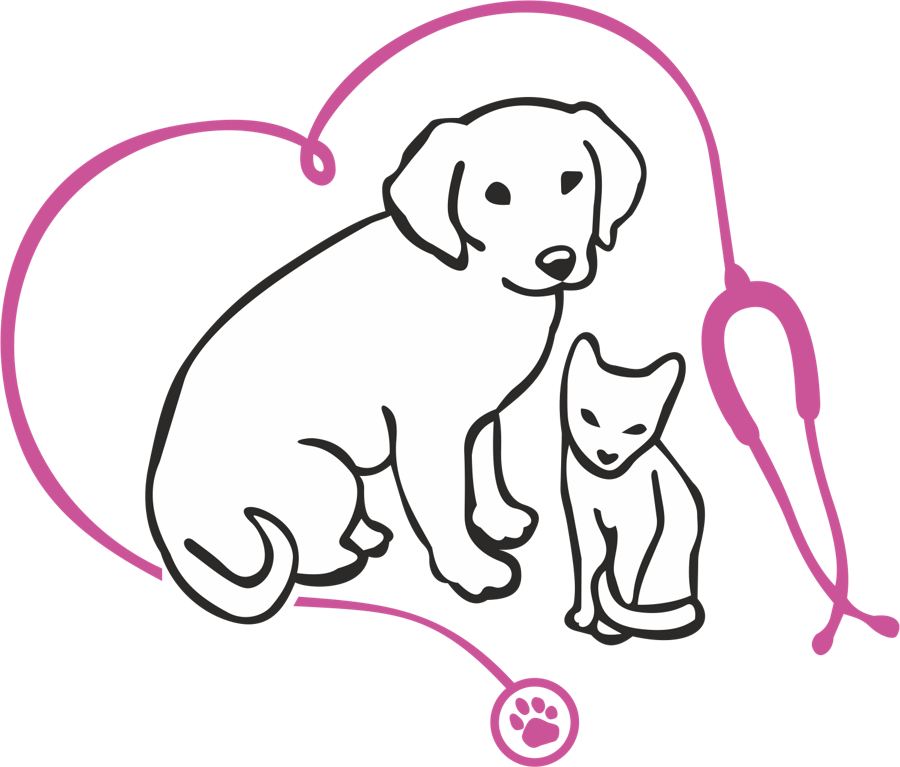
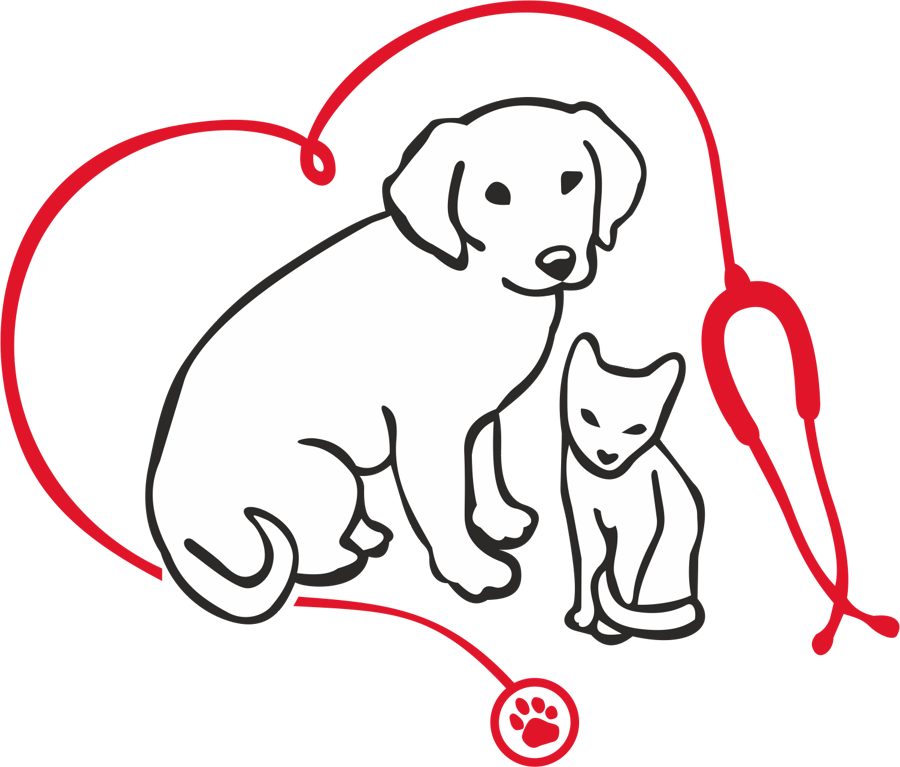
Add files via upload

diff --git a/css/style.css b/css/style.css
@@ -1,17 +1,17 @@
 /* Тёплый Хвост. Стили написаны с нуля. */
 :root {
-  --green: #1f7a6d;
-  --green-dark: #165a50;
-  --green-tint: #e3f1ee;
-  --orange: #f28c38;
-  --orange-dark: #d9741f;
-  --ink: #23332f;
-  --muted: #5d6e69;
-  --bg: #fbf8f3;
+  --green: #b3470a;
+  --green-dark: #8a3606;
+  --green-tint: #ffe8d2;
+  --orange: #ff8a1f;
+  --orange-dark: #e56f00;
+  --ink: #1f1410;
+  --muted: #6b5548;
+  --bg: #fff7f0;
   --white: #ffffff;
-  --line: #e4ddd1;
-  --radius: 16px;
-  --shadow: 0 6px 24px rgba(35, 51, 47, .08);
+  --line: #ecd5c0;
+  --radius: 10px;
+  --shadow: 6px 6px 0 rgba(16, 24, 32, .9);
   --font: "Segoe UI", system-ui, -apple-system, Roboto, "Helvetica Neue", Arial, sans-serif;
 }
 
@@ -20,7 +20,7 @@ html { scroll-behavior: smooth; scroll-padding-top: 90px; }
 body { margin: 0; font-family: var(--font); color: var(--ink); background: var(--bg); line-height: 1.6; font-size: 17px; }
 img, svg { max-width: 100%; display: block; }
 a { color: var(--green); }
-h1, h2, h3 { line-height: 1.2; margin: 0 0 .5em; }
+h1, h2, h3 { line-height: 1.15; margin: 0 0 .5em; font-weight: 800; letter-spacing: -.02em; }
 h1 { font-size: clamp(2rem, 4.5vw, 3.2rem); }
 h2 { font-size: clamp(1.6rem, 3vw, 2.2rem); }
 h3 { font-size: 1.15rem; }
@@ -32,13 +32,13 @@ p { margin: 0 0 1em; }
 .skip { position: absolute; left: -999px; top: 8px; background: var(--ink); color: #fff; padding: 8px 14px; border-radius: 8px; z-index: 100; }
 .skip:focus { left: 8px; }
 
-:focus-visible { outline: 3px solid var(--orange); outline-offset: 2px; }
+:focus-visible { outline: 3px solid var(--green); outline-offset: 2px; }
 
 /* Плашка */
 .notice { background: var(--ink); color: #fff; text-align: center; font-size: .85rem; padding: 6px 12px; }
 
 /* Шапка */
-.header { position: sticky; top: 0; z-index: 50; background: rgba(251, 248, 243, .95); backdrop-filter: blur(8px); border-bottom: 1px solid var(--line); }
+.header { position: sticky; top: 0; z-index: 50; background: rgba(255, 247, 240, .95); backdrop-filter: blur(8px); border-bottom: 1px solid var(--line); }
 .header__row { display: flex; align-items: center; gap: 20px; min-height: 72px; }
 .logo { display: flex; align-items: center; gap: 10px; text-decoration: none; color: var(--ink); font-weight: 700; line-height: 1.1; }
 .logo small { display: block; font-weight: 400; color: var(--muted); font-size: .75rem; }
@@ -60,7 +60,7 @@ p { margin: 0 0 1em; }
 .btn { display: inline-block; border: 2px solid transparent; border-radius: 999px; padding: 10px 22px; font: inherit; font-weight: 600; cursor: pointer; text-decoration: none; transition: background .15s, transform .15s, color .15s; }
 .btn:active { transform: translateY(1px); }
 .btn--accent { background: var(--orange); color: #1d1206; }
-.btn--accent:hover { background: var(--orange-dark); color: #fff; }
+.btn--accent:hover { background: var(--orange-dark); color: var(--ink); }
 .btn--ghost { border-color: var(--green); color: var(--green); background: transparent; }
 .btn--ghost:hover { background: var(--green); color: #fff; }
 .btn--lg { padding: 14px 28px; font-size: 1.05rem; }
@@ -89,6 +89,7 @@ p { margin: 0 0 1em; }
 .section { padding: 64px 0; }
 .section--tint { background: var(--green-tint); }
 .section__lead { color: var(--muted); max-width: 40em; margin-bottom: 28px; }
+.doctor .doctor__days { flex: 0; font-size: .9rem; margin-top: -4px; }
 .note { color: var(--muted); font-size: .88rem; margin-top: 16px; }
 
 /* Вкладки */
@@ -163,14 +164,13 @@ input:focus, select:focus, textarea:focus { border-color: var(--green); }
 /* Контакты */
 .contacts { display: grid; grid-template-columns: 1.1fr .9fr; gap: 32px; align-items: start; }
 address { font-style: normal; }
-.map { height: 200px; border-radius: var(--radius); background: repeating-linear-gradient(45deg, #fff, #fff 12px, #eef6f4 12px, #eef6f4 24px); border: 1px dashed var(--green); display: grid; place-items: center; color: var(--muted); }
 
 /* Подвал */
-.footer { background: var(--ink); color: #dfe8e5; padding: 32px 0; }
+.footer { background: var(--ink); color: #f6e9dd; padding: 32px 0; }
 .footer__row { display: flex; flex-wrap: wrap; gap: 24px; justify-content: space-between; }
-.footer p { margin: 4px 0 0; color: #b6c4c0; font-size: .9rem; }
+.footer p { margin: 4px 0 0; color: #d4bfae; font-size: .9rem; }
 .footer nav { display: flex; flex-wrap: wrap; gap: 16px; align-items: flex-start; }
-.footer a { color: #dfe8e5; }
+.footer a { color: #f6e9dd; }
 
 /* Окна */
 .modal { border: 0; border-radius: var(--radius); padding: 0; width: min(520px, 100% - 24px); max-height: 92vh; overflow: auto; box-shadow: 0 20px 60px rgba(0, 0, 0, .3); }
@@ -211,3 +211,86 @@ address { font-style: normal; }
   .price th, .price td { padding: 12px; }
   .cookie { flex-direction: column; align-items: stretch; }
 }
+
+/* Смелый дизайн: жёсткие тени, резкие углы, «нажимающиеся» кнопки */
+:root { --hard: 4px 4px 0 var(--ink); --hard-lg: 8px 8px 0 var(--ink); --edge: 2px solid var(--ink); }
+.header { border-bottom: var(--edge); background: var(--white); }
+.nav a { border-bottom-width: 3px; transition: border-color .15s; }
+.nav a:hover { border-color: var(--orange-dark); }
+
+.btn { border-radius: 8px; text-transform: none; letter-spacing: .01em; border-color: var(--ink); box-shadow: var(--hard); transition: transform .12s, box-shadow .12s, background .12s, color .12s; }
+.btn:hover { transform: translate(-2px, -2px); box-shadow: 6px 6px 0 var(--ink); }
+.btn:active { transform: translate(4px, 4px); box-shadow: 0 0 0 var(--ink); }
+.btn--accent { background: var(--orange); color: var(--ink); }
+.btn--accent:hover { background: var(--orange); color: var(--ink); }
+.btn--ghost { background: var(--white); color: var(--ink); }
+.btn--ghost:hover { background: var(--ink); color: var(--orange); }
+.link { color: var(--ink); text-decoration-color: var(--green); text-decoration-thickness: 3px; transition: color .12s; }
+.link:hover { color: var(--green); }
+
+.hero { background: linear-gradient(180deg, var(--green-tint), var(--bg)); border-bottom: var(--edge); }
+.hero__art img { transition: transform .3s; }
+.hero__art img:hover { transform: rotate(-3deg) scale(1.04); }
+.messengers a { border-radius: 8px; border: var(--edge); box-shadow: 3px 3px 0 var(--ink); transition: transform .12s, box-shadow .12s, background .12s; }
+.messengers a:hover { background: var(--orange); color: var(--ink); border-color: var(--ink); transform: translate(-1px, -1px); box-shadow: 4px 4px 0 var(--ink); }
+
+.trust__grid div, .card, .promo, .doctor, .steps li, .article, .faq, .table-wrap { border: var(--edge); border-radius: var(--radius); box-shadow: var(--hard); }
+.card, .promo, .doctor, .steps li { transition: transform .15s, box-shadow .15s; }
+.card:hover, .promo:hover, .doctor:hover, .steps li:hover { transform: translate(-3px, -3px); box-shadow: var(--hard-lg); }
+.trust__grid strong { color: var(--ink); font-size: 2rem; font-weight: 800; }
+.badge { border: var(--edge); border-radius: 6px; transform: rotate(-2deg); }
+.avatar { background: var(--ink); color: var(--orange); border-radius: 12px; }
+.steps span { border: var(--edge); border-radius: 8px; }
+
+.tabs { border: var(--edge); border-radius: 10px; background: var(--white); box-shadow: var(--hard); padding: 4px; }
+.tab { border-radius: 6px; transition: background .12s, color .12s; }
+.tab:hover { color: var(--ink); }
+.tab.is-active { background: var(--ink); color: var(--orange); }
+.chip { border: var(--edge); border-radius: 8px; font-weight: 600; transition: background .12s, transform .12s; }
+.chip:hover { background: var(--orange); transform: translateY(-1px); }
+.chip.is-active { background: var(--ink); border-color: var(--ink); color: var(--orange); }
+.price-tools input[type="search"] { border: var(--edge); border-radius: 8px; }
+.price thead th { background: var(--ink); color: var(--orange); }
+.price tbody tr { transition: background .1s; }
+.price tbody tr:hover { background: var(--orange); }
+
+input[type="text"], input[type="tel"], input[type="date"], select, textarea { border: var(--edge); border-radius: 8px; transition: box-shadow .12s; }
+input:focus, select:focus, textarea:focus { outline: none; box-shadow: var(--hard); }
+.modal { border: var(--edge); box-shadow: var(--hard-lg); }
+.form { border: var(--edge); box-shadow: var(--hard); }
+.burger { border: var(--edge); border-radius: 8px; }
+.footer { border-top: var(--edge); }
+.footer a:hover { color: var(--orange); }
+
+/* Ритм секций: светлая, оранжевая, тёмная */
+.section { border-bottom: var(--edge); }
+.section--accent { background: var(--orange); }
+.section--accent .section__lead, .section--accent .note { color: var(--ink); }
+.section--dark { background: var(--ink); color: #fff; }
+.section--dark h2 { color: var(--orange); }
+.section--dark .doctor { color: var(--ink); box-shadow: 4px 4px 0 var(--orange); }
+.section--dark .doctor:hover { box-shadow: 8px 8px 0 var(--orange); }
+.section--dark .avatar { background: var(--orange); color: var(--ink); }
+
+/* Бегущая строка */
+.ticker { background: var(--orange); border-bottom: var(--edge); overflow: hidden; white-space: nowrap; padding: 12px 0; }
+.ticker__track { display: inline-flex; animation: ticker 28s linear infinite; }
+.ticker__track span { font-weight: 800; letter-spacing: .08em; text-transform: uppercase; font-size: .95rem; padding-right: 0; }
+@keyframes ticker { to { transform: translateX(-50%); } }
+
+/* Наклейка на первом экране */
+.hero__art { position: relative; }
+.sticker { position: absolute; right: 4%; bottom: 2%; width: 136px; height: 136px; padding: 8px; display: grid; place-items: center; text-align: center; background: var(--orange); border: var(--edge); border-radius: 50%; box-shadow: var(--hard); font-weight: 800; font-size: .72rem; letter-spacing: .02em; line-height: 1.25; text-transform: uppercase; transform: rotate(-12deg); animation: wobble 4s ease-in-out infinite; }
+@keyframes wobble { 50% { transform: rotate(-4deg) scale(1.05); } }
+
+/* Появление при прокрутке */
+.js .reveal { opacity: 0; translate: 0 24px; transition: opacity .5s ease-out, translate .5s ease-out, transform .15s, box-shadow .15s; }
+.js .reveal.is-in { opacity: 1; translate: 0 0; }
+
+@media (prefers-reduced-motion: reduce) {
+  .ticker__track, .sticker { animation: none; }
+  .js .reveal { opacity: 1; translate: none; transition: none; }
+  .btn, .card, .promo, .doctor, .steps li, .hero__art img, .messengers a, .chip { transition: none; }
+  .btn:hover, .card:hover, .promo:hover, .doctor:hover, .steps li:hover, .hero__art img:hover { transform: none; }
+}
+.trust { padding-top: 32px; }

diff --git a/index.html b/index.html
@@ -58,9 +58,17 @@
         </div>
         <div class="hero__art">
           <img src="img/hero.png" alt="Собака и кошка со стетоскопом">
+          <span class="sticker" aria-hidden="true">Принимаем<br>круглосуточно</span>
         </div>
       </div>
     </section>
+
+    <div class="ticker" aria-hidden="true">
+      <div class="ticker__track">
+        <span>Стационар 24/7 ✦ УЗИ ✦ Цифровой рентген ✦ Лаборатория ✦ Вызов врача на дом ✦ Вакцинация ✦ Хирургия ✦ Стоматология ✦ </span>
+        <span>Стационар 24/7 ✦ УЗИ ✦ Цифровой рентген ✦ Лаборатория ✦ Вызов врача на дом ✦ Вакцинация ✦ Хирургия ✦ Стоматология ✦ </span>
+      </div>
+    </div>
 
     <!-- Показатели доверия -->
     <section class="trust" aria-label="О клинике в цифрах">
@@ -117,7 +125,7 @@
     <section class="section" id="prices">
       <div class="container">
         <h2>Цены</h2>
-        <p class="section__lead">Окончательную стоимость врач называет до начала лечения.</p>
+        <p class="section__lead">Цены ориентировочные, уточняйте у администратора. Окончательную стоимость врач называет до начала лечения.</p>
 
         <div class="price-tools">
           <label class="visually-hidden" for="price-search">Поиск по прайсу</label>
@@ -158,7 +166,7 @@
     </section>
 
     <!-- Акции -->
-    <section class="section section--tint" id="promo">
+    <section class="section section--accent" id="promo">
       <div class="container">
         <h2>Акции</h2>
         <div class="cards cards--3">
@@ -170,14 +178,14 @@
     </section>
 
     <!-- Врачи -->
-    <section class="section" id="doctors">
+    <section class="section section--dark" id="doctors">
       <div class="container">
         <h2>Наши врачи</h2>
         <div class="cards cards--4">
-          <article class="doctor"><div class="avatar" aria-hidden="true">ИС</div><h3>Ирина Соколова</h3><p>Ветврач-терапевт, Ветврач-кардиолог</p><button class="link" type="button" data-open-booking>Записаться</button></article>
-          <article class="doctor"><div class="avatar" aria-hidden="true">ДВ</div><h3>Дмитрий Волков</h3><p>Хирург</p><button class="link" type="button" data-open-booking>Записаться</button></article>
-          <article class="doctor"><div class="avatar" aria-hidden="true">ЕМ</div><h3>Елена Миронова</h3><p>Ветврач-стоматолог</p><button class="link" type="button" data-open-booking>Записаться</button></article>
-          <article class="doctor"><div class="avatar" aria-hidden="true">АК</div><h3>Алексей Крылов</h3><p>Специалист УЗИ и рентгена</p><button class="link" type="button" data-open-booking>Записаться</button></article>
+          <article class="doctor"><div class="avatar" aria-hidden="true">ИС</div><h3>Ирина Соколова</h3><p>Ветврач-терапевт, Ветврач-кардиолог</p><p class="doctor__days">Приём: пн, ср, пт</p><button class="link" type="button" data-open-booking>Записаться</button></article>
+          <article class="doctor"><div class="avatar" aria-hidden="true">ДВ</div><h3>Дмитрий Волков</h3><p>Хирург</p><p class="doctor__days">Приём: вт, чт, сб</p><button class="link" type="button" data-open-booking>Записаться</button></article>
+          <article class="doctor"><div class="avatar" aria-hidden="true">ЕМ</div><h3>Елена Миронова</h3><p>Ветврач-стоматолог</p><p class="doctor__days">Приём: пн–пт</p><button class="link" type="button" data-open-booking>Записаться</button></article>
+          <article class="doctor"><div class="avatar" aria-hidden="true">АК</div><h3>Алексей Крылов</h3><p>Специалист УЗИ и рентгена</p><p class="doctor__days">Приём: ср–вс</p><button class="link" type="button" data-open-booking>Записаться</button></article>
         </div>
       </div>
     </section>
@@ -256,7 +264,6 @@
             <li><a href="https://t.me/sera1im" data-contact="Telegram" data-value="@sera1im" data-button="Открыть в Telegram">Telegram</a></li>
             <li><a href="https://vk.ru/bruhyouarestupid" data-contact="ВКонтакте" data-button="Перейти в ВКонтакте">VK</a></li>
           </ul>
-          <div class="map" role="img" aria-label="Схема проезда (заглушка)">Здесь будет карта проезда</div>
         </div>
 
         <form class="form" id="callback-form" novalidate>

diff --git a/js/main.js b/js/main.js
@@ -158,3 +158,37 @@ document.querySelector('#cookie-ok').addEventListener('click', () => {
   localStorage.setItem('cookieOk', 'yes');
   cookie.hidden = true;
 });
+
+// ---------- 8. Плавное появление блоков при прокрутке ----------
+// Класс js включает скрытие блоков только если скрипт работает: без него страница видна целиком
+if ('IntersectionObserver' in window) {
+  document.documentElement.classList.add('js');
+  const reveals = document.querySelectorAll('.section h2, .card, .promo, .doctor, .steps li, .article, .faq, .review');
+  const watcher = new IntersectionObserver(items => {
+    items.forEach(item => {
+      if (item.isIntersecting) { item.target.classList.add('is-in'); watcher.unobserve(item.target); }
+    });
+  }, { threshold: 0.1 });
+  reveals.forEach(el => { el.classList.add('reveal'); watcher.observe(el); });
+}
+
+// ---------- 9. Статьи: текст «печатается» при открытии ----------
+const typing = !matchMedia('(prefers-reduced-motion: reduce)').matches;
+document.querySelectorAll('.article').forEach(article => {
+  const text = article.querySelector('p');
+  const fullText = text.textContent;
+  let timer;
+  article.addEventListener('toggle', () => {
+    clearInterval(timer);
+    text.textContent = fullText;
+    if (!article.open || !typing) return;
+    text.style.minHeight = text.offsetHeight + 'px'; // место под весь текст, чтобы карточка не прыгала
+    text.textContent = '';
+    let shown = 0;
+    timer = setInterval(() => {
+      shown += 2;
+      text.textContent = fullText.slice(0, shown);
+      if (shown >= fullText.length) clearInterval(timer);
+    }, 20);
+  });
+});

diff --git a/CHANGELOG.md b/CHANGELOG.md
@@ -2,6 +2,23 @@
 
 Формат: дата — что сделано. Новые записи добавляйте сверху.
 
+## 2026-10-27
+Обновление оформления: более яркий и «резкий» дизайн.
+- Палитра: оранжевый акцент, тёмно-коричневый вместо чёрного, тёплый персиковый фон.
+- Кнопки, карточки, вкладки и фильтры получили рамки, жёсткие тени и анимацию при наведении (приподнимаются, при нажатии «вдавливаются»).
+- Секции чередуют цвета: светлая, оранжевая («Акции»), тёмная («Наши врачи»).
+- Добавлены бегущая строка под первым экраном и наклейка «Принимаем круглосуточно».
+- Новый логотип: кошачья мордочка (`img/logo.svg`).
+- Фонендоскоп на картинке первого экрана перекрашен в алый цвет (`img/hero.png`).
+- В `main.js` добавлен блок 8: плавное появление блоков при прокрутке (если браузер не поддерживает, блоки просто показываются сразу).
+- В `main.js` добавлен блок 9: в «Полезных материалах» текст статьи «печатается» при открытии (при включённом «уменьшить движение» показывается сразу).
+- Движение отключается, если в системе включено «уменьшить движение».
+
+## 2026-10-26
+- В карточках врачей добавлены дни приёма.
+- В разделе «Цены» указано, что цены ориентировочные и их нужно уточнять у администратора.
+- Убрана заглушка «Здесь будет карта проезда»: адрес указан в контактах, маршрут пользователь строит в картах телефона.
+
 ## 2026-10-20
 - Убрана ссылка на WhatsApp из шапки первого экрана и из раздела «Контакты». Остались Telegram и ВКонтакте.
 - Для Приложения Б доклада подготовлены скриншоты сайта (компьютер и телефон) и схема блоков страницы.

diff --git a/progress.md b/progress.md
@@ -1,0 +1,24 @@
+# Ход работы над проектом «Тёплый Хвостик»
+
+Журнал последних изменений (подробный журнал сайта — CHANGELOG.md в репозитории).
+
+## 27.10.2026
+- Получены ответы пробного опроса (Google Forms): 4 респондента. Итоги внесены в раздел 2.3 доклада; шуточные ответы не учитывались, один отзыв о неудобстве на телефоне описан честно как неподтверждённый.
+- Доклад обновлён до версии v5: итоги опроса, строка в Приложении Е, пересчитано оглавление (18 стр., приложения 6 стр.), дата защиты в Приложении Е — 15.03.2027 (условная, заменить настоящей).
+- Сайт: в карточках врачей добавлены дни приёма; в «Ценах» пометка «цены ориентировочные, уточняйте у администратора»; убрана заглушка карты проезда. Файлы нужно залить на GitHub: index.html, CHANGELOG.md, css/style.css.
+- Подготовлена презентация в PowerPoint (10 слайдов) и отдельный текст выступления (около 630 слов, 5–6 минут).
+
+## 26.10.2026
+- Ручная проверка (8 из 8 пунктов) и Lighthouse через PageSpeed Insights: компьютер 100/96/100/100, телефон 90/96/100/100.
+- В доклад добавлены скриншоты (Приложение Б), Приложение Е «Ход работы», исправлены устаревшие формулировки.
+- Запущен опрос в Google Forms.
+
+## 19–20.10.2026
+- Автор внёс правки в сайт: название «Тёплый Хвостик», контакты, ссылка ВКонтакте; убран WhatsApp.
+- Сайт опубликован на GitHub Pages; обновлены README.md и CHANGELOG.md.
+
+## Осталось
+- Залить правки сайта на GitHub и проверить страницу.
+- Прочитать выступление вслух, засечь время.
+- Подготовиться к вопросам комиссии (разбор кода — Razbor_koda.md).
+- Заменить условную дату защиты настоящей.
